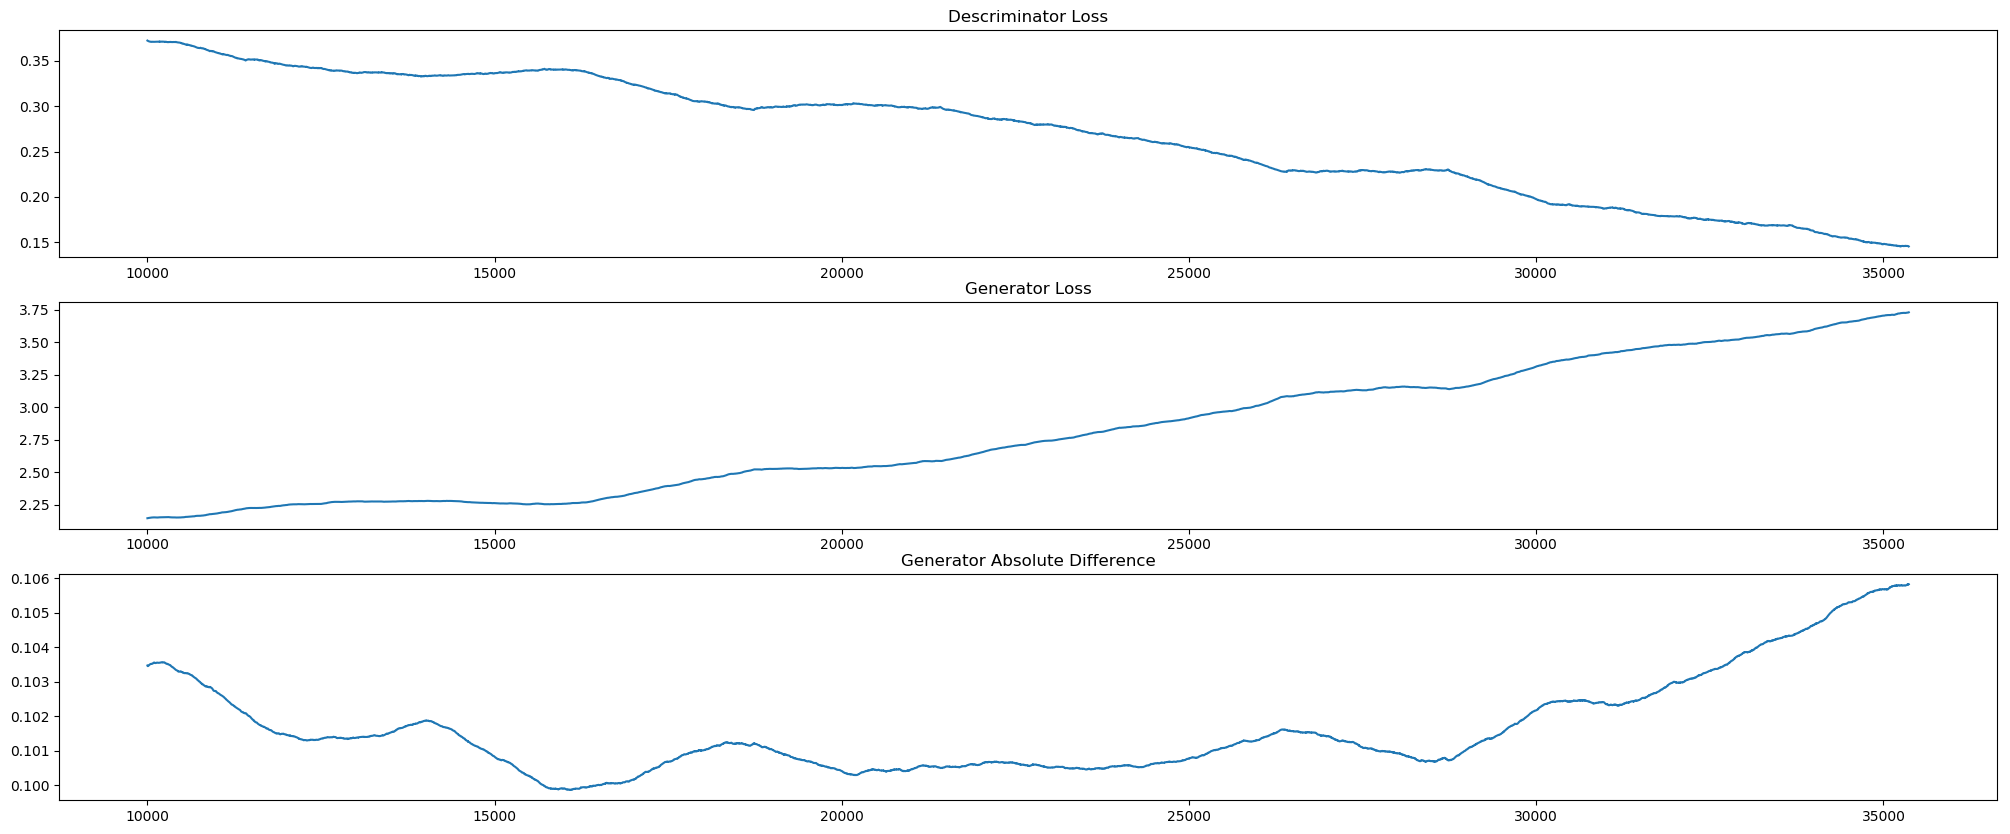
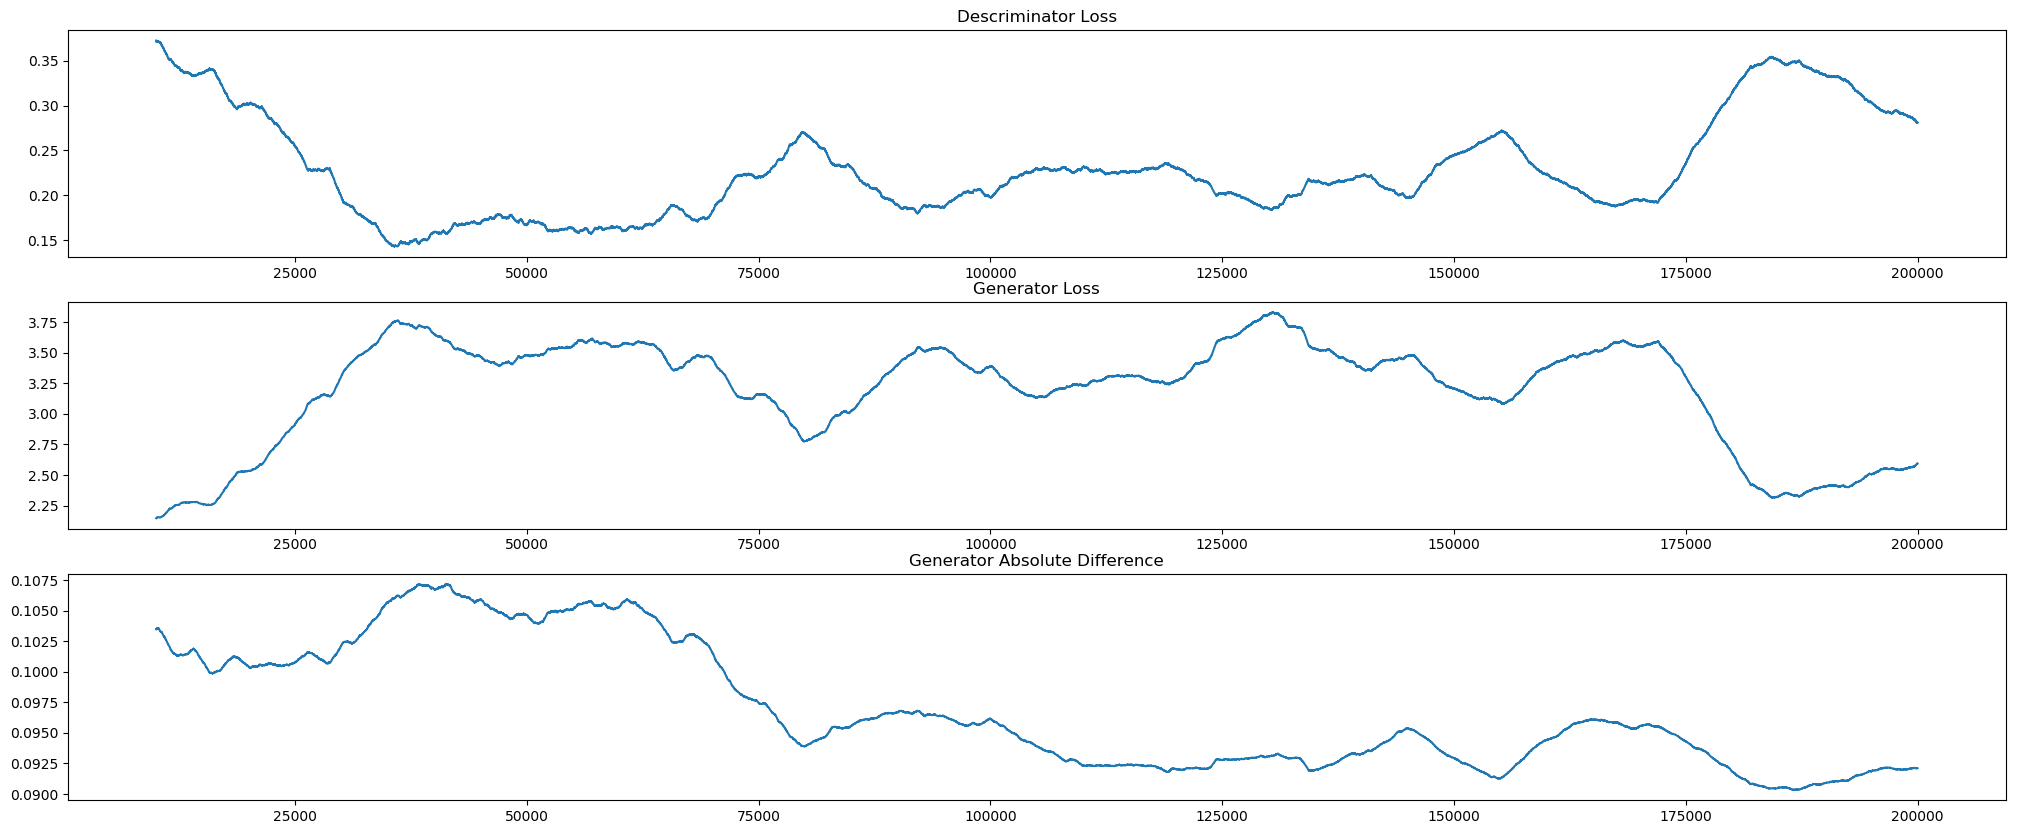
stereo and testing

diff --git a/data_collection/get_stereo_png.py b/data_collection/get_stereo_png.py
@@ -3,11 +3,10 @@ import os
 import sunpy
 import sunpy.map
 import numpy as np
-import astropy.units as u
 from astropy.coordinates import SkyCoord
 from PIL import Image
 import argparse
-from datetime import datetime, timedelta
+from multiprocessing import Pool, cpu_count
 
 
 # parse the optional arguments:
@@ -15,12 +14,7 @@ parser = argparse.ArgumentParser()
 parser.add_argument("--min",
                     help="lower bound cutoff pixel value",
                     type=int,
-                    default=650
-                    )
-parser.add_argument("--max",
-                    help="upper bound cutoff pixel value",
-                    type=int,
-                    default=5000
+                    default=700
                     )
 parser.add_argument("--FITS_path",
                     help="directory of FITS data",
@@ -29,50 +23,40 @@ parser.add_argument("--FITS_path",
 parser.add_argument("--png_path",
                     help="name of folder to be saved in",
                     default="DATA/png_stereo/")
-parser.add_argument("--times_path",
-                    help="path to times document",
-                    default="DATA/phase_stereo_times.txt")
 parser.add_argument("--name",
                     default="stereo")
 
 args = parser.parse_args()
 
 
-def save_to_png(name, fits_path, png_path, min, max, w, h, i):
+def save_to_png(name, fits_path, png_path, min, w, h):
 
     filename = fits_path + name
     print(filename)
+    map_ref = sunpy.map.Map(filename)
+    mat = map_ref.rotation_matrix
+    map_ref = map_ref.rotate(rmatrix=mat)
 
-    s_map = sunpy.map.Map(filename)
-
-    # rotating such that north is top of image
-    mat = s_map.rotation_matrix
-    s_map = s_map.rotate(rmatrix=mat)
-
-    # radius of sun in arcseconds
-    radius = s_map.rsun_arcseconds * u.arcsec
-
-    # crop so only the sun is present
-    top_right = SkyCoord(radius, radius, frame=s_map.coordinate_frame)
-    bottom_left = SkyCoord(-radius, -radius, frame=s_map.coordinate_frame)
-    submap = s_map.submap(bottom_left, top_right)
-
-    # get image data
+    # crop so only sun is shown
+    radius = map_ref.rsun_obs
+    top_right = SkyCoord(radius, radius, frame=map_ref.coordinate_frame)
+    bottom_left = SkyCoord(-radius, -radius, frame=map_ref.coordinate_frame)
+    submap = map_ref.submap(bottom_left, top_right)
+    # clip data between (min, max):
     image_data = submap.data
 
-    # clip data
-    image_data = np.clip(image_data, min, max)
-
-    # translate data so it starts at 0
     image_data -= min
 
-    # normalise data between 0 and 1
-    image_data = image_data/((max - min))
+    max = np.percentile(image_data, 50)*15
+
+    image_data = np.clip(image_data, 0, max)
+
+    # normalise data so it's between (0, 1):
+    image_data = image_data/max
 
     # format data, and convert to image
     image = Image.fromarray(np.uint8(image_data * 255), 'L')
-
-    # resize
+    # resize to width x height
     image = image.resize((w, h), Image.LANCZOS)
 
     # date:
@@ -83,78 +67,13 @@ def save_to_png(name, fits_path, png_path, min, max, w, h, i):
     M = name[11:13]
     S = name[13:15]
 
-    s_time = datetime(year=int(y),
-                      month=int(m),
-                      day=int(d),
-                      hour=int(H),
-                      minute=int(M),
-                      second=int(S))
-
-    while stereo_times[i] < s_time:
-        i += 1
-
-    if (stereo_times[i]-s_time) > (s_time - stereo_times[i-1]):
-        phase_time = phase_times[i-1]
-    else:
-        phase_time = phase_times[i]
-        i += 1
-
-    # add an hour if time is before 12
-    if phase_time.hour == 11 or phase_time.hour == 23:
-        phase_time += timedelta(hours=1)
-
-    phase_string = phase_time.strftime("%Y.%m.%d_%H:00:00")
-    filename = f"{png_path}STEREO_{y}.{m}.{d}_{H}:{M}:{S}_" \
-               f"{phase_string}.png"
+    filename = f"{png_path}STEREO_{y}.{m}.{d}_{H}:{M}:{S}.png"
     image.save(filename)
 
-    return i
 
-
-w = h = 1024
-# min and maxed were chosen so that the result was as similar to
-# aia between a min of 0 and a max of 150
-min = args.min
-max = args.max
-fits_path = args.FITS_path
-png_path = args.png_path
-os.makedirs(png_path) if not os.path.exists(png_path) else None
-
-
-error_path = "DATA/error_handling/"
-os.makedirs(error_path) if not os.path.exists(error_path) else None
-f1 = open(f"{error_path}{args.name}_ValueError.txt", 'w')
-
-files = np.sort(os.listdir(fits_path))
-
-
-# load phase and stereo time data
-phase_times, stereo_times = np.loadtxt(args.times_path,
-                                       dtype=str).T
-
-phase_times = np.array([datetime.strptime(time, "%Y.%m.%d_%H:%M:%S")
-                       for time in phase_times
-                        ])
-
-
-stereo_times = np.array([datetime.strptime(time, "%Y.%m.%d_%H:%M:%S")
-                        for time in stereo_times
-                         ])
-
-# index for times
-index = 0
-
-for filename in files:
+def catch(*inputs):
     try:
-        index = save_to_png(name=filename,
-                            fits_path=fits_path,
-                            png_path=png_path,
-                            min=min,
-                            max=max,
-                            w=w,
-                            h=h,
-                            i=index
-                            )
+        save_to_png(*inputs)
     except ValueError as err:
         print(f"Error: {filename}")
         f1.write(f"{filename}\t{err}\n")
@@ -164,5 +83,34 @@ for filename in files:
     except OSError as err:
         print(f"Error: {filename}")
         f1.write(f"{filename}\t{err}\n")
+
+
+w = h = 1024
+# min and maxed were chosen so that the result was as similar to
+# aia between a min of 0 and a max of 150
+min = args.min
+fits_path = args.FITS_path
+png_path = args.png_path
+os.makedirs(png_path) if not os.path.exists(png_path) else None
+n_cpus = np.min((cpu_count(), 8))
+error_path = "DATA/error_handling/"
+os.makedirs(error_path) if not os.path.exists(error_path) else None
+f1 = open(f"{error_path}{args.name}_Error.txt", 'w')
+files = np.sort(os.listdir(fits_path))
+
+
+inputs = []
+for filename in files:
+    inputs.append((filename,
+                   fits_path,
+                   png_path,
+                   min,
+                   w,
+                   h))
+
+print(f"downloading {len(inputs)} files with {n_cpus} cpus.")
+pool = Pool(n_cpus)
+pool.starmap(catch, inputs)
+
 
 f1.close()

diff --git a/kim_gan/test.py b/kim_gan/test.py
@@ -4,6 +4,7 @@ import numpy as np
 from tensorflow.keras.models import load_model
 import tensorflow.keras.backend as K
 import tensorflow.compat.v1 as tf
+import argparse
 
 
 tf.disable_v2_behavior()
@@ -26,18 +27,42 @@ def listdir_nohidden(path):
     return glob.glob(os.path.join(path, '*'))
 
 
+parser = argparse.ArgumentParser()
+parser.add_argument("--model_name",
+                    help="name of model",
+                    default='test_1'
+                    )
+
+parser.add_argument("--display_iter",
+                    help="number of iterations between each test",
+                    type=int,
+                    default=20000
+                    )
+parser.add_argument("--max_iter",
+                    help="total number of iterations",
+                    type=int,
+                    default=500000
+                    )
+parser.add_argument("--input",
+                    help="input dataset",
+                    type=str,
+                    default="AIA"
+                    )
+args = parser.parse_args()
+
+
 # set parameters
 SLEEP_TIME = 1000
-DISPLAY_ITER = 200000
-MAX_ITER = 200000
+DISPLAY_ITER = args.display_iter
+MAX_ITER = args.max_iter
 MODE = 'AIA_to_HMI'
-INPUT = 'AIA'
+INPUT = args.input
 OUTPUT = 'MAG'
-OP1 = f'{INPUT}_to_{OUTPUT}'
+OP1 = f'{INPUT.upper()}_to_{OUTPUT}'
 
-TRIAL_NAME = 'P100_1'
+TRIAL_NAME = args.model_name
 
-TEST_PATH = './DATA/aia_test/*.npy'
+TEST_PATH = f'./DATA/{INPUT.lower()}_test/*.npy'
 
 ISIZE = 1024  # input size
 NC_IN = 1  # number of channels in the output

diff --git a/kim_gan/sort_data.py b/kim_gan/sort_data.py
@@ -12,7 +12,7 @@ parser.add_argument("--input",
                     )
 parser.add_argument("--train",
                     help="folder for training pngs",
-                    default="./DATA/hmi_train/"
+                    default=None
                     )
 parser.add_argument("--test",
                     help="folder for training pngs",
@@ -33,7 +33,8 @@ def save_array(input, output):
 
 
 # make folders
-os.makedirs(train_folder) if not os.path.exists(train_folder) else None
+if train_folder is not None:
+    os.makedirs(train_folder) if not os.path.exists(train_folder) else None
 os.makedirs(test_folder) if not os.path.exists(test_folder) else None
 
 files = np.sort(os.listdir(input_folder))
@@ -42,7 +43,7 @@ for png in files:
     info = png.split("_")
     date = f"{info[1]}_{info[2][:8]}"
     date = datetime.strptime(date, "%Y.%m.%d_%H:%M:%S")
-    if date.month in test_months:
+    if (date.month in test_months) or (train_folder is None):
         output_file = test_folder + png[:-4]
     else:
         output_file = train_folder + png[:-4]

diff --git a/kim_gan/mag_vs_hmi.py b/kim_gan/mag_vs_hmi.py
@@ -1,11 +1,29 @@
 import numpy as np
 from PIL import Image
 import os
+import argparse
 
-x = "AIA"  # test input
-y = "HMI"  # test output
+parser = argparse.ArgumentParser()
+parser.add_argument("--model_name",
+                    help="name of model",
+                    default='test_1'
+                    )
+parser.add_argument("--input",
+                    help="input dataset",
+                    type=str,
+                    default="AIA"
+                    )
+parser.add_argument("--output",
+                    help="dataset for comparison",
+                    type=str,
+                    default=None
+                    )
+args = parser.parse_args()
+
+x = args.input  # test input
+y = args.output  # test output
 g = "MAG"  # generator output
-model = "P100_1"
+model = args.model_name
 
 input_test_dir = f"DATA/{x.lower()}_test/"
 output_test_dir = f"DATA/{y.lower()}_test/" if y is not None else None

diff --git a/data_collection/get_png.py b/data_collection/get_png.py
@@ -39,6 +39,7 @@ n_cpus = min(cpu_count(), 8)
 
 def save_to_png(name, fits_path, png_path, min, w, h):
     filename = fits_path + name + ext
+    print(filename)
     map_ref = sunpy.map.Map(filename)
     mat = map_ref.rotation_matrix
     map_ref = map_ref.rotate(rmatrix=mat)
@@ -105,7 +106,7 @@ n = len(files)
 inputs = []
 
 for filename in files:
-    fielname = filename[:-(len(ext))]
+    filename = filename[:-(len(ext))]
     if (filename + ".png") not in already_downloaded:
         inputs.append((filename,
                        fits_path,
